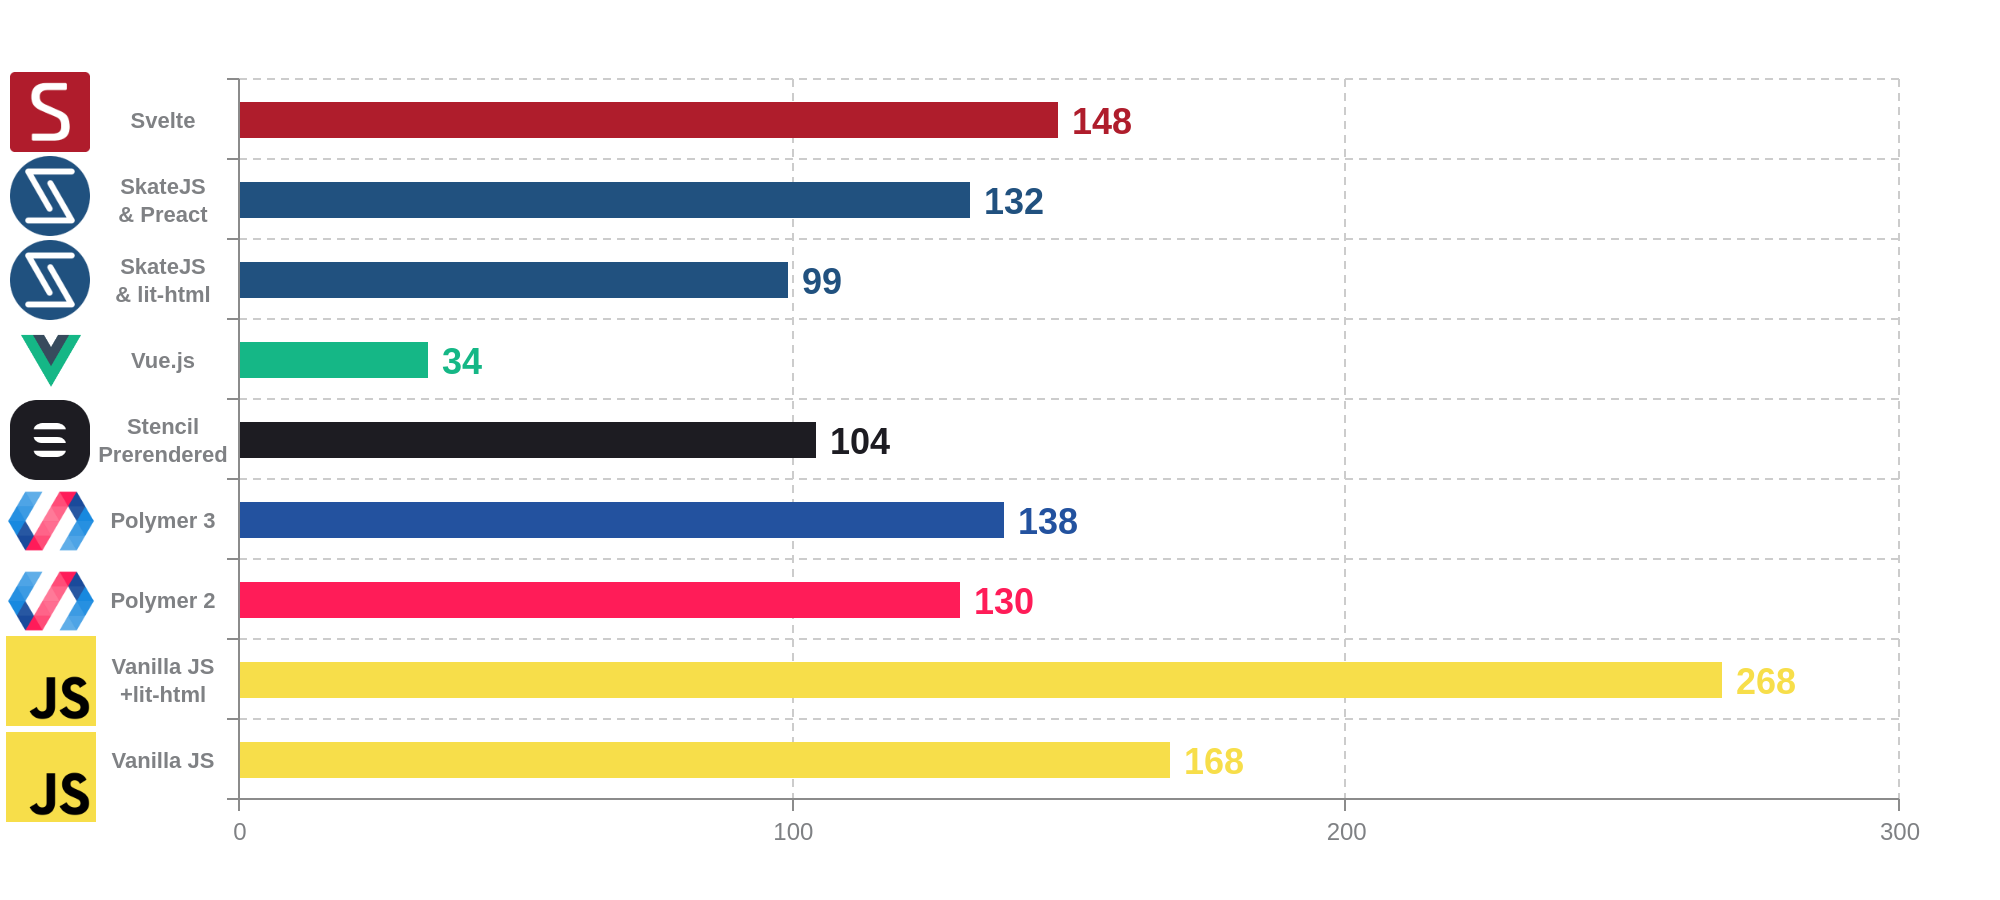
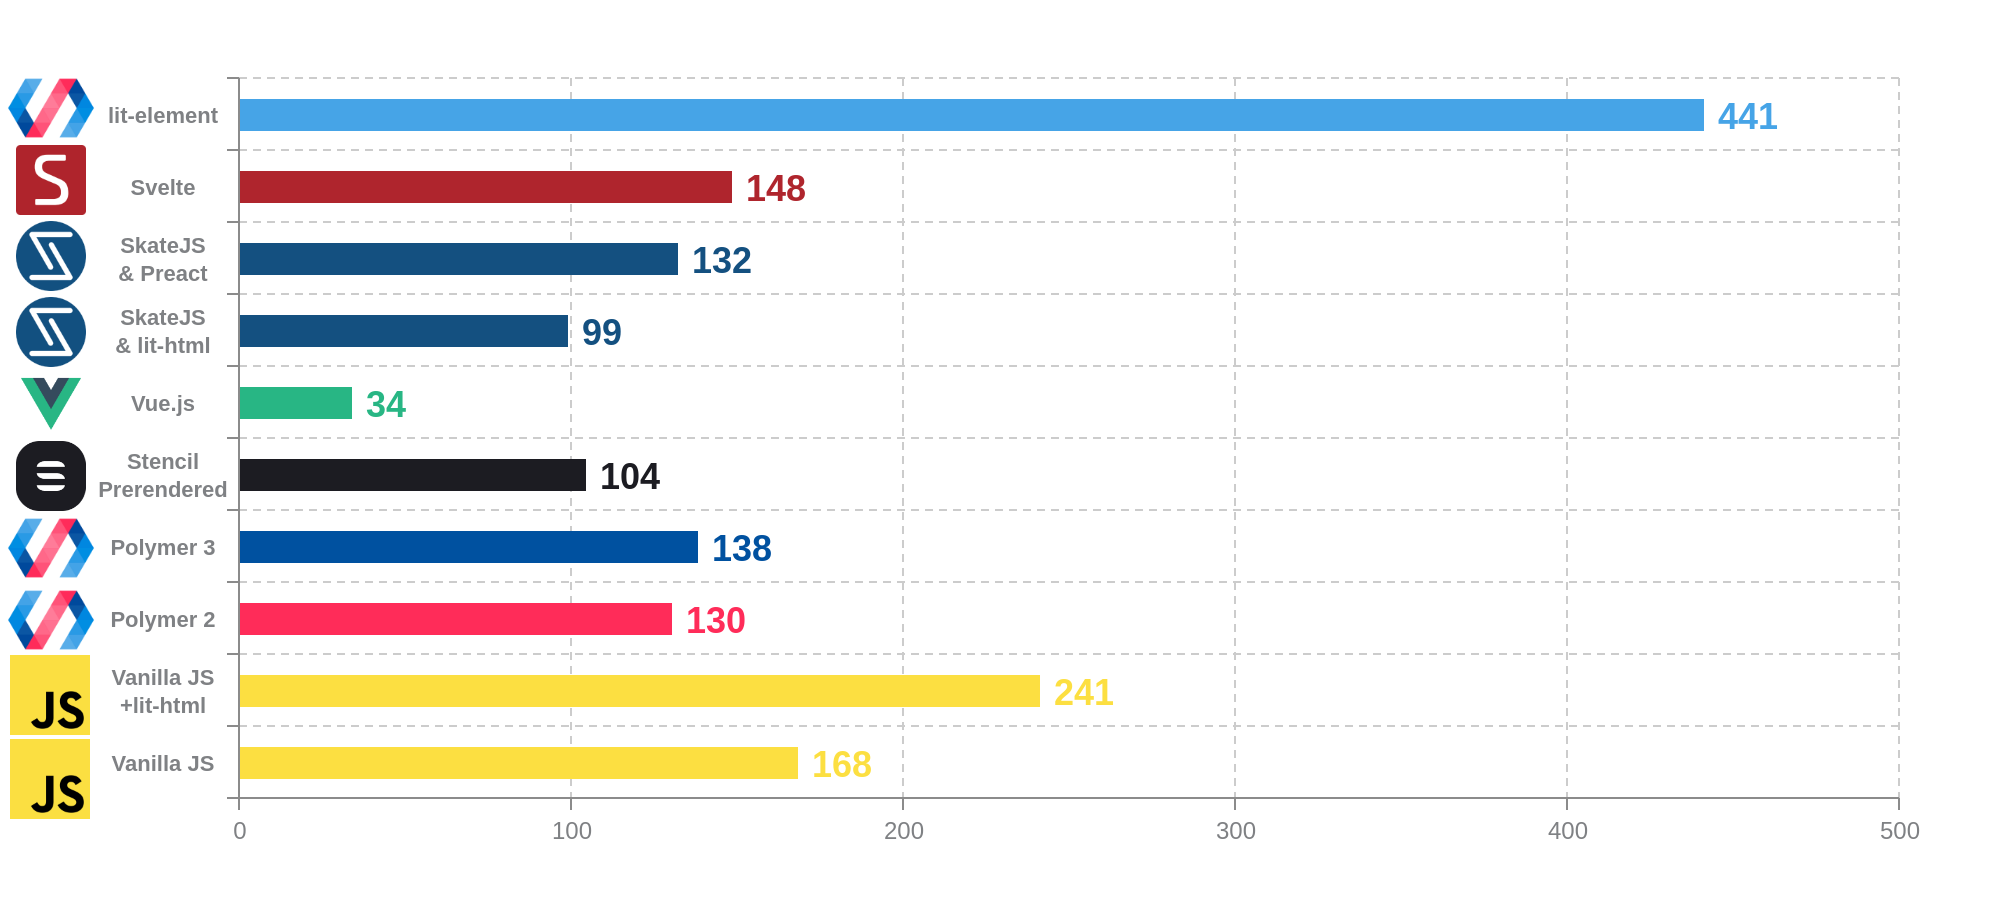
Updates

diff --git a/benchmarks/benchmark_results_graph.html b/benchmarks/benchmark_results_graph.html
@@ -290,7 +290,7 @@
             width: '1000'
         });
 
-        myConfig.series[0].values = [209, 281, 395, 355, 221, 242, 371, 358, 185, 253];
+        myConfig.series[0].values = [209, 239, 395, 355, 221, 242, 371, 358, 185, 253];
 
         zingchart.render({
             id: 'create',

diff --git a/README.md b/README.md
@@ -1,6 +1,6 @@
 # Web components benchmark
 
-Benchmarks of libraries and implementation of Web Components : Native, Polymer 2, Polymer 3, Stencil, Vue.js, SkateJS, Svelte
+Benchmarks of libraries and implementation of Web Components : Native, Polymer 2, Polymer 3, Stencil, Vue.js, SkateJS, Svelte, lit-element
 
 TodoMVC implementation forked from [shprink/web-components-todo](https://github.com/shprink/web-components-todo)
 
